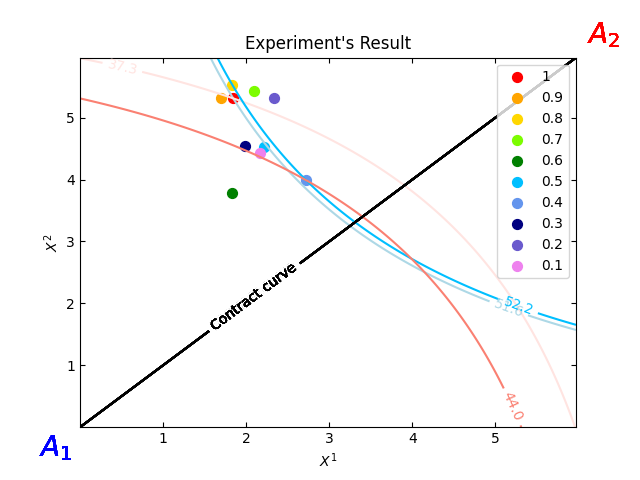
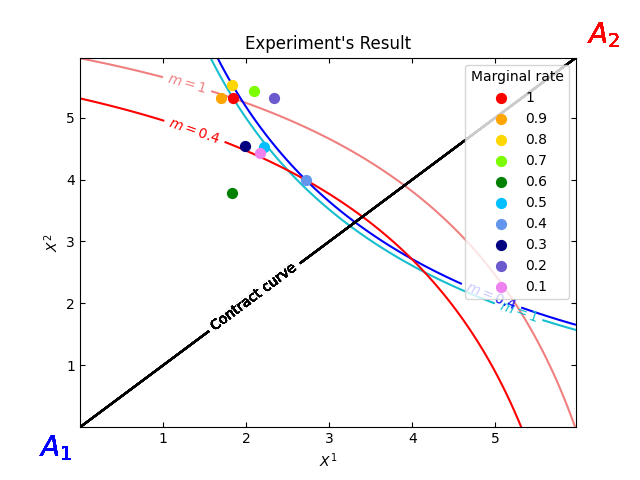
indifference_curve_v2

diff --git a/Graph/indiffernce_curve.py b/Graph/indiffernce_curve.py
@@ -63,39 +63,41 @@ def draw_Ed_Bow(U1,U2, Xmax, Ymax, Xmin=10**(-6), Ymin=10**(-6), Utility_Show = 
         C_curv = np.interp(xC_curv,C_curv.index,C_curv)
         Num_ind_1 = pd.Series(Z1(xC_curv,C_curv)).sort_values(ascending=True)
         Num_ind_2 = pd.Series(Z2(xC_curv,C_curv)).sort_values(ascending=True)
-        
+
     #Draw the dotation point and his curves
     if AlPoint != None:
         if marginal_rate:
-            plt.scatter(AlPoint[0],AlPoint[1],s=200,marker=".",color = al_color,label=marginal_rate)
+            plt.scatter(AlPoint[0],AlPoint[1],s=200,marker=".",color = al_color,label=marginal_rate, zorder=3)
             # plt.text(AlPoint[0],AlPoint[1],marginal_rate, fontsize=10, color="black", verticalalignment='center', horizontalalignment='center')
         else:
-            plt.scatter(AlPoint[0],AlPoint[1],s=200,marker=".",color = colors[1],label="Allocation point")
+            plt.scatter(AlPoint[0],AlPoint[1],s=200,marker=".",color = colors[1],label="Allocation point", zorder=3)
         Num_ind_1 = [Z1(AlPoint[0],AlPoint[1])]
         Num_ind_2 = [Z2(AlPoint[0],AlPoint[1])]
 
     #draw the indifference curve
     if Utility_draw == True:
-        C1 = plt.contour(X, Y, Z1(X,Y),colors = colors[2],levels=Num_ind_1)
-        C2 = plt.contour(X, Y, Z2(X,Y),colors = colors[3],levels=Num_ind_2)
+        C1 = plt.contour(X, Y, Z1(X,Y),colors = colors[2],levels=Num_ind_1, zorder=1)
+        C2 = plt.contour(X, Y, Z2(X,Y),colors = colors[3],levels=Num_ind_2, zorder=1)
         if Utility_Show == True:
             fmt = {}
             strs = round(pd.Series(C1.levels[:]),1)
             for l, s in zip(C1.levels, strs):
                 fmt[l] = s
-            # breakpoint()
-            plt.clabel(C1, C1.levels, inline = True,
-                    fmt = fmt, fontsize = 10)
-            #Utility level2
+            # plt.clabel(C1, C1.levels, inline = True,
+            #         fmt = fmt, fontsize = 10)
+            plt.clabel(C1, C1.levels, inline=True, fmt={level: rf"$m={marginal_rate}$" for level in C1.levels}, fontsize=10)
 
+            #Utility level2
             fmt = {}
             strs = round(pd.Series(C2.levels[:]),1)
 
             for l, s in zip(C2.levels, strs):
                 fmt[l] = s
-            plt.clabel(C2, C2.levels, inline = True,
-                    fmt = fmt, fontsize = 10)
+            # plt.clabel(C2, C2.levels, inline = True,
+            #         fmt = fmt, fontsize = 10)
+            plt.clabel(C2, C2.levels, inline=True, fmt={level: rf"$m={marginal_rate}$" for level in C2.levels}, fontsize=10)
 
+            
     if draw_general_curve == True:
         plt.title("Indifference Curves")
     else:
@@ -116,20 +118,20 @@ U2 = lambda c, n: 10 * (1 - (0.8)**c) / (1 - 0.8) + 10* (1 - (0.8)**n) / (1 - 0.
 
 if draw_general_curve: # #draw the general indifference curve
     draw_Ed_Bow(U1,U2,6,6,colors=["k","Orange", "lightblue","mistyrose"],Utility_Show = True, Num_ind=5)
-    draw_Ed_Bow(U1,U2,6,6,Xlab=r"$X^1$",Ylab=r"$X^2$",AlPoint=(3,3),Contract_draw=True,Utility_Show = True)
+    draw_Ed_Bow(U1,U2,6,6,Xlab=r"$X_1$",Ylab=r"$X_2$",AlPoint=(3,3),Contract_draw=True,Utility_Show = True)
     plt.savefig("./indiffernce_curve.png")
 
 else: #draw the experiment result indifference curve
-    draw_Ed_Bow(U1,U2,6,6,colors=["k","Orange", "lightblue","mistyrose"], AlPoint=(1.8444444444444446,5.311111111111111),Utility_Show = True, Utility_draw = True, marginal_rate=1,al_color = "red")
+    draw_Ed_Bow(U1,U2,6,6,colors=["k","Orange", "tab:cyan","lightcoral"], AlPoint=(1.8444444444444446,5.311111111111111),Utility_Show = True, Utility_draw = True, marginal_rate=1,al_color = "red")
     draw_Ed_Bow(U1,U2,6,6,colors=["k","Orange", "lightblue","mistyrose"], AlPoint=(1.6989247311827957,5.311827956989247),Utility_Show = True, Utility_draw = False, marginal_rate=0.9,al_color = "orange")
     draw_Ed_Bow(U1,U2,6,6,colors=["k","Orange", "lightblue","mistyrose"], AlPoint=(1.826086956521739,5.532608695652174),Utility_Show = True, Utility_draw = False, marginal_rate=0.8,al_color = "gold")
     draw_Ed_Bow(U1,U2,6,6,colors=["k","Orange", "lightblue","mistyrose"], AlPoint=(2.098901098901099,5.428571428571429),Utility_Show = True, Utility_draw = False, marginal_rate=0.7,al_color = "lawngreen")
     draw_Ed_Bow(U1,U2,6,6,colors=["k","Orange", "lightblue","mistyrose"], AlPoint=(1.8275862068965518,3.7758620689655173),Utility_Show = True, Utility_draw = False, marginal_rate=0.6,al_color = "green")
     draw_Ed_Bow(U1,U2,6,6,colors=["k","Orange", "lightblue","mistyrose"], AlPoint=(2.2096774193548385,4.532258064516129),Utility_Show = True, Utility_draw = False, marginal_rate=0.5,al_color = "deepskyblue")
-    draw_Ed_Bow(U1,U2,6,6,colors=["k","Orange", "deepskyblue","salmon"], AlPoint=(2.7222222222222223,3.988888888888889),Utility_Show = True, Utility_draw = True, marginal_rate=0.4,al_color = "cornflowerblue")
+    draw_Ed_Bow(U1,U2,6,6,colors=["k","Orange", "blue","red"], AlPoint=(2.7222222222222223,3.988888888888889),Utility_Show = True, Utility_draw = True, marginal_rate=0.4,al_color = "cornflowerblue")
     draw_Ed_Bow(U1,U2,6,6,colors=["k","Orange", "lightblue","mistyrose"], AlPoint=(1.9870129870129871,4.534090909090909),Utility_Show = True, Utility_draw = False, marginal_rate=0.3,al_color = "navy")
     draw_Ed_Bow(U1,U2,6,6,colors=["k","Orange", "lightblue","mistyrose"], AlPoint=(2.3295454545454546,5.311111111111111),Utility_Show = True, Utility_draw = False, marginal_rate=0.2,al_color = "slateblue")
     draw_Ed_Bow(U1,U2,6,6,colors=["k","Orange", "lightblue","mistyrose"],  Xlab=r"$X^1$",Ylab=r"$X^2$", AlPoint=(2.1666666666666665,4.433333333333334),Utility_Show = True, Utility_draw = False, marginal_rate=0.1,al_color = "violet")
 
-    plt.legend()
+    plt.legend(title="Marginal rate", loc="upper right")
     plt.savefig("./indiffernce_curve_experiment.png")
